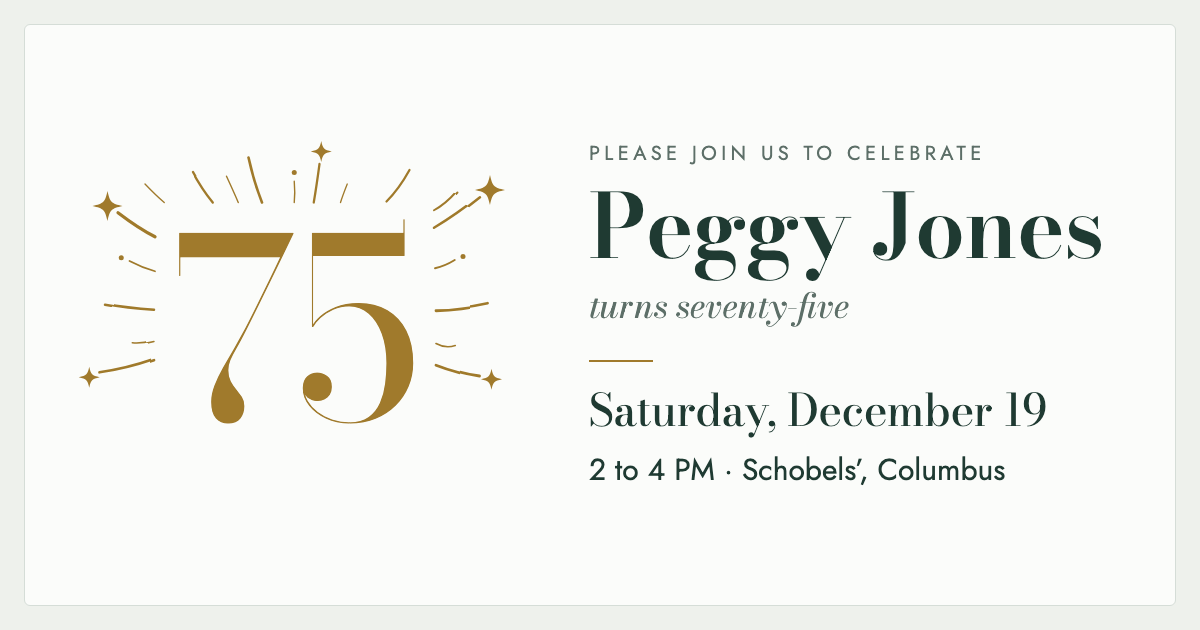
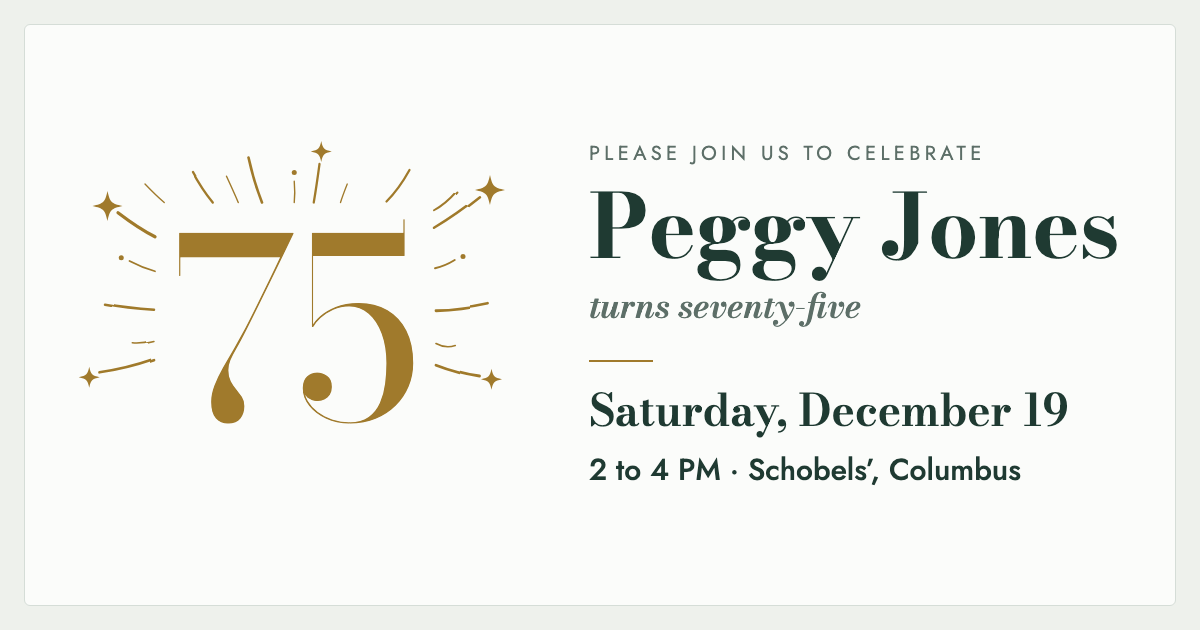
Match the preview card to the bolder invite text

Changed region(s): [[0.4933, 0.3016, 0.9558, 0.5429], [0.4933, 0.6032, 0.8942, 0.6937], [0.4933, 0.7238, 0.8633, 0.7841]]

diff --git a/og/card.html b/og/card.html
@@ -6,7 +6,7 @@
   <title>Link preview card</title>
   <!-- The image texts and emails show for the invite link. og/card.png is a 1200 by 630
        screenshot of this page. Re-shoot it if the date, time or place changes. -->
-  <link rel="stylesheet" href="https://fonts.googleapis.com/css2?family=Bodoni+Moda:ital,opsz,wght@0,6..96,400;0,6..96,600;1,6..96,400&family=Jost:wght@400;500&display=swap">
+  <link rel="stylesheet" href="https://fonts.googleapis.com/css2?family=Bodoni+Moda:ital,opsz,wght@0,6..96,400..700;1,6..96,400..700&family=Jost:wght@400;500&display=swap">
   <style>
     :root { --paper: #eef1ec; --card: #fbfcfa; --ink: #1f3a32; --muted: #5d6f68; --gold: #a07a2c; --rule: #d5ddd7; }
     * { box-sizing: border-box; }
@@ -24,11 +24,11 @@
     .num { font-family: "Bodoni Moda", serif; font-size: 1em; line-height: 0.9; color: var(--gold); margin: 0; font-variant-numeric: lining-nums; }
     .text { padding: 0 48px 0 24px; display: flex; flex-direction: column; gap: 14px; }
     .eyebrow { font-size: 20px; letter-spacing: 0.22em; text-transform: uppercase; color: var(--muted); margin: 0; }
-    h1 { font-family: "Bodoni Moda", serif; font-weight: 600; font-size: 88px; line-height: 1; margin: 0; }
-    .sub { font-family: "Bodoni Moda", serif; font-style: italic; font-size: 34px; color: var(--muted); margin: -4px 0 0; }
+    h1 { font-family: "Bodoni Moda", serif; font-weight: 700; font-variation-settings: "opsz" 24; font-size: 88px; line-height: 1; margin: 0; }
+    .sub { font-family: "Bodoni Moda", serif; font-style: italic; font-weight: 600; font-variation-settings: "opsz" 12; font-size: 34px; color: var(--muted); margin: -4px 0 0; }
     .rule { width: 64px; height: 2px; background: var(--gold); border: 0; margin: 14px 0 10px; }
-    .when { font-family: "Bodoni Moda", serif; font-size: 44px; line-height: 1.1; margin: 0; }
-    .where { font-size: 30px; margin: 0; }
+    .when { font-family: "Bodoni Moda", serif; font-weight: 600; font-variation-settings: "opsz" 12; font-size: 44px; line-height: 1.1; margin: 0; }
+    .where { font-size: 30px; font-weight: 500; margin: 0; }
   </style>
 </head>
 <body>
